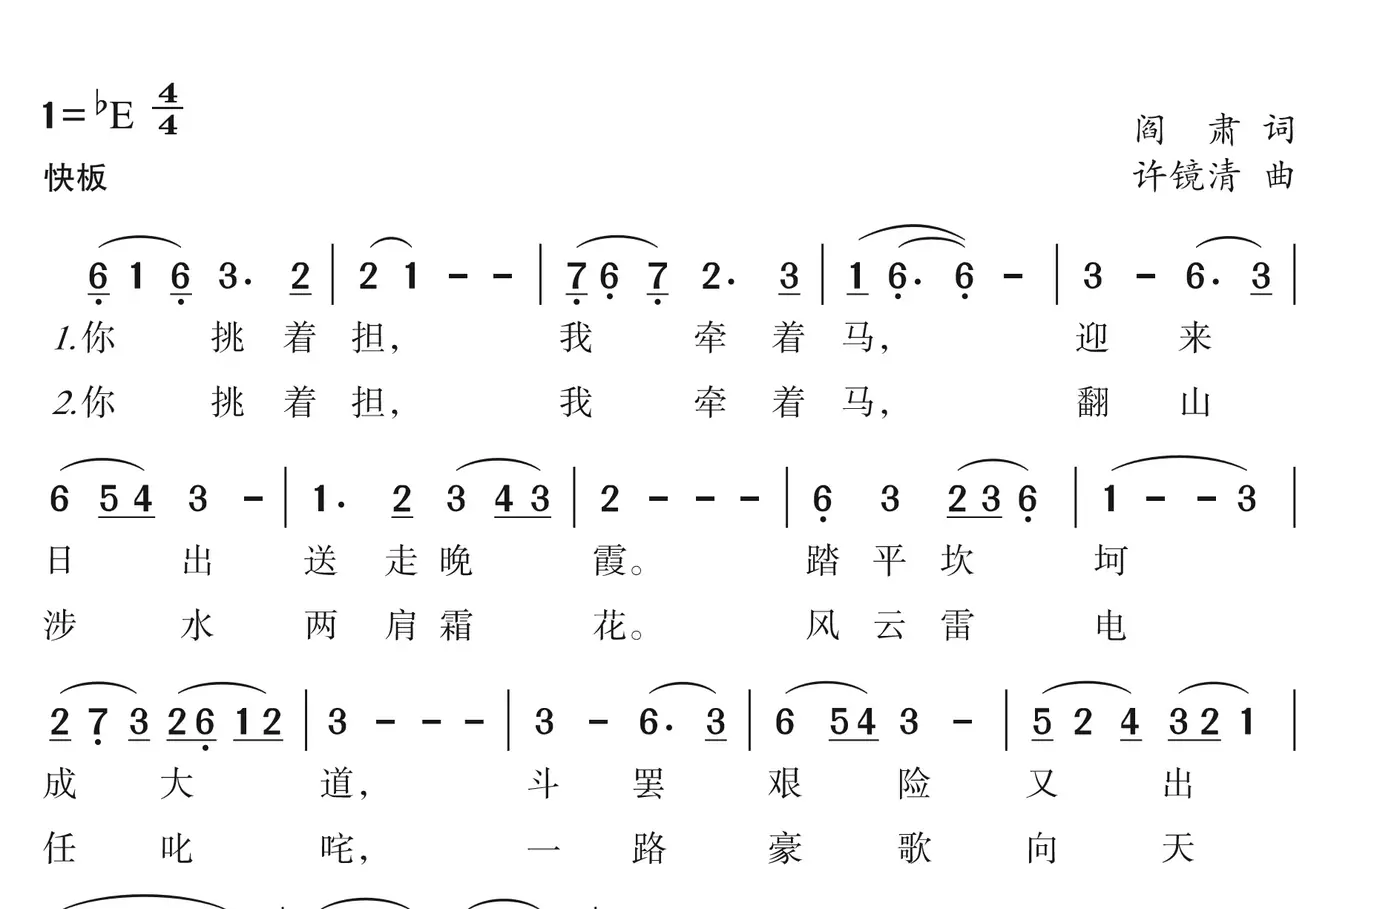
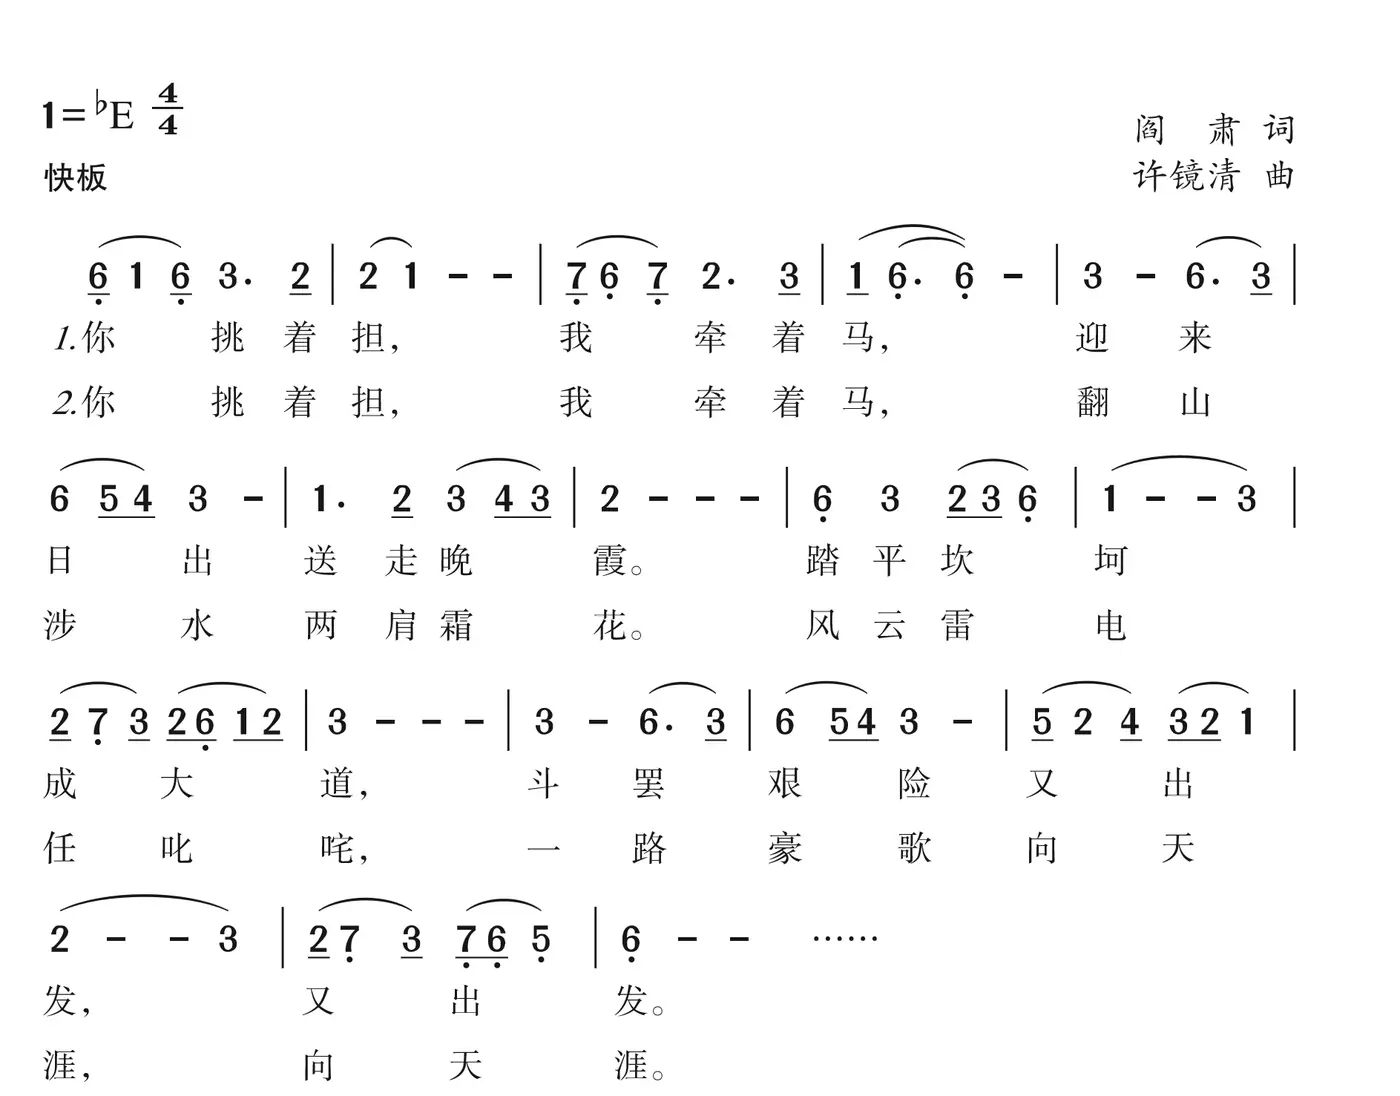
feat(xiangyi): 八下 melodies (40 works) transcribed from the score crops
Also fixes cut-off score boxes for 好汉歌, 敢问路在何方, 大红枣儿送亲人,
阳关三叠 and 发声练习（3）. Skipped: 要学那泰山顶上一青松 (散板), F大调 and
和弦 (scale/chord diagrams).

diff --git a/app/lib/lesson/melodies-xy-g8s2.ts b/app/lib/lesson/melodies-xy-g8s2.ts
@@ -353,6 +353,103 @@ const MELODIES: Record<string, Melody[]> = {
       "",
       { edition: E, title: "五线谱视唱", note: "照录第41页五线谱视唱（2）（金砂《牧羊姑娘》，F大调），按音高译为简谱；“慢板”未标数字速度，播放暂按60 BPM" }),
   ],
+  "《滚滚长江东逝水》": [
+    segment(B, 44, "1=D", "4/4", 76,
+      "6/ 5/ 6/ 7/ 7/ ~6/ 6/ ~5// ~#4// | 3 - - - | 2/ 2/ 2/ ~6,/ 1 2/ ~1/ | 3 - - - |" +
+      " 5/ 5 5// ~3// 5 3/ ~5/ | 6/ ~6/ ~6/ ~3// ~2// 2/ ~1. | 2/ 2/ 2// 2// ~1// ~2// 3/ ~5. | 3,/ 5,/ 6,// ~7,// 5,/ 6, 6,/ 1/ |" +
+      " 2/ 2/ 2// 3// 1// 2// 3/ 5/ 5,/ 6,/ | 3,./ 5,// 6,// 7,// 5,/ 6,/ 6,/ 6,/ 1/ |" +
+      " 2/ 2/ 2// ~3// ~6,/ 1 - | 2 3.// ~5/// ~6,/ 2/ ~1. | 2/ 2/ 2/ ~6,/ 1 6/ ~5/ | ~5/ 3. ~3 - |" +
+      " 6/ 6 ~1'/ 2'/ ~3'// ~2'// 1'/ ~7/ | 6/ 2'/ ~1'.// ~2'/// ~7// ~6// 6/ ~5. | 3/ 5/ 6// 6// ~1'/ 2' 1'/ 2'/ |" +
+      " 3'// ~2'// ~3'. ~3' - | ~3' - - 2'/ ~5/ | 1'/ ~6. ~6 - | ~6 - - - | ~6 - - - | ~6 - - 0",
+      "滚 滚 长 江 东 逝 水 浪 花 淘 尽 英 雄 是 非 成 败 转 头 空 青 山 依 旧 在 几 度 夕 阳 红 " +
+      "_ _ _ _ _ _ _ _ _ _ _ _ _ _ _ _ _ _ _ _ _ " +
+      "白 发 渔 樵 江 渚 上 惯 看 秋 月 春 风 一 壶 浊 酒 喜 相 逢 古 今 多 少 事 都 付 笑 谈 中",
+      { edition: E, note: "照录第44—45页，括号内间奏照录；结尾反复只录一遍，直接接第二结尾；倚音、波音从略；“中速 豪迈地”未标数字速度，播放暂按76 BPM" }),
+  ],
+  "《好汉歌》": [
+    segment(B, 46, "1=♭A", "4/4", 120,
+      "5 5' 7/ 7// ~6// 5/ 5/ | 1'/ 1'// 6// 5/ 5/ 3'// 3'/ ~6// 5/ 5/ | 0/ 5'/ 0/ 5'/ 1'/ 6// ~1'// 2'/ 2'/ | 2'/ 5'/ 2'/ 5'/ 3'// ~2'// 1'/ 2'/ 2'/ |" +
+      " 5 5' 7/ 7// ~6// 5/ 5/ | 1'/ 1'// ~6// 5/ 5/ 3'// 3'/ ~6// 5/ 5/ | 0/ 5'/ 0/ 5'/ 1'/ 6// ~1'// 2'/ 2'/ | 2'/ 5'/ 2'/ 5'/ 3'// ~2'// 1'/ 2'/ 2'/ |" +
+      " 3'./ 3'// 3'/ 3'/ 3'// ~5'// 6/ 1'/ 1'/ | 5'./ 6// 5/ 5/ 6// ~5// 3/ 5/ 5/ | 5/ 1'/ 5/ 1'/ 6// ~5// 3/ 5/ 5/ |" +
+      " 5'./ 6// 5/ 5/ 6// ~5// 3/ 5/ 5/ | 5/ 1'/ 5/ 1'/ 6// ~5// 3/ 5/ 5/ |" +
+      " 5'./ ~3'// 2' 3'// 3'/ ~1'// 2' | 0/ 5'/ 0/ 5'/ 6'// ~1''// 3'/ 2' | 5'./ ~3'// 2' 3'// ~2'// 1'/ 2' | 2'/ 5'/ 2'/ 5'/ 3'// ~2'// 1'/ 2' |" +
+      " 3'./ 3'// 3'/ 3'/ 3'// ~5'// 6/ 1'/ 1'/ | 5'./ 6// 5/ 5/ 6// ~5// 3/ 5/ 5/ | 5/ 1'/ 5/ 1'/ 6// ~5// 3/ 5/ 5/ |" +
+      " 0/ 5/ 0/ 5/ 4/ 4// 4// 5// 5// 5/ | 0/ 5/ 0/ 5/ 4/ 4// 4// 5// 5// 5/ | 2'/ 2'/ 1'// 1'// 2'/ 0 0 | 0 0 0 1'// 1'// 2'/",
+      "大 河 向 东 流 哇 天 上 的 星 星 参 北 斗 哇 咳 咳 参 北 斗 哇 生 死 之 交 一 碗 酒 哇 " +
+      "说 走 咱 就 走 啊 你 有 我 有 全 都 有 啊 咳 咳 全 都 有 哇 水 里 火 里 不 回 头 啊 " +
+      "路 见 不 平 一 声 吼 啊 该 出 手 时 就 出 手 啊 风 风 火 火 闯 九 州 啊 该 出 手 时 就 出 手 啊 风 风 火 火 闯 九 州 啊 " +
+      "嗨 呀 依 儿 呀 嗨 嗨 依 儿 呀 嗨 呀 依 儿 呀 唉 嗨 唉 嗨 依 儿 呀 " +
+      "路 见 不 平 一 声 吼 啊 该 出 手 时 就 出 手 啊 风 风 火 火 闯 九 州 啊 嘿 嘿 嗨 呀 呼 嘿 嘿 嘿 嘿 嘿 嗨 呀 呼 嘿 嘿 嘿 _ _ _ _ _ _ _ _",
+      { edition: E, note: "照录第46—47页，歌词录入第一段，反复后接结束句（括号内器乐照录，笑声未录）；（领）（合）不分声部；重音记号从略；“粗犷、豪放地”未标数字速度，播放暂按120 BPM" }),
+  ],
+  "《葬花吟》": [
+    segment(B, 48, "1=F", "4/4", 72,
+      "1./ ~2// ~7,/ ~6,/ 3 - | 1./ ~3// ~2/ ~7,/ 6, - | 6 - 6./ ~5// ~3/ ~2/ | 2 - - - | 3./ ~5// ~2/ ~3/ 5 - | 3./ ~5// ~3/ ~6,/ 1 - | 7, 5 ~3./ ~5// ~2/ ~7,/ | 6,./ ~1// ~6, - - |" +
+      " 1 1 - ~7,/ ~6,/ | 2./ ~3// 2 - ~3 | 6 - 6./ ~5// ~3/ ~2/ | 2/ ~3// ~2// ~1 - - | 7,./ ~6,// ~5,/ ~6,/ 1 ~7,/ ~6,/ | 2./ ~3// ~5,/ ~6,/ 1 - | 7, 5 ~3./ ~5// ~2/ ~7,/ | 6,./ ~1// ~6, - -",
+      "花 开 花 谢 飞 满 天 红 消 香 断 有 谁 怜 游 丝 软 系 飘 春 榭 落 絮 轻 沾 扑 绣 帘",
+      { edition: E, note: "照录第48页（书上以“……”截止）；“中速 凄婉、哀怨地”未标数字速度，播放暂按72 BPM" }),
+  ],
+  "《敢问路在何方》": [
+    segment(B, 49, "1=♭E", "4/4", 120,
+      "6,/ ~1 ~6,/ 3. 2/ | 2 ~1 - - | 7,/ ~6, ~7,/ 2. 3/ | 1/ ~6,. ~6, - | 3 - 6. ~3/ | 6 ~5/ ~4/ 3 - | 1. 2/ 3 ~4/ ~3/ | 2 - - - |" +
+      " 6, 3 2/ ~3/ ~6, | 1 - - ~3 | 2/ ~7, ~3/ 2/ ~6,/ ~1/ ~2/ | 3 - - - | 3 - 6. ~3/ | 6 ~5/ ~4/ 3 - | 5/ ~2 ~4/ 3/ ~2/ ~1 | 2 - - ~3 |" +
+      " 2/ ~7,/ 3 ~7,/ ~6,/ ~5, | 6, - - -",
+      "你 挑 着 担 我 牵 着 马 迎 来 日 出 送 走 晚 霞 踏 平 坎 坷 成 大 道 斗 罢 艰 险 又 出 发 又 出 发",
+      { edition: E, note: "照录第49页，歌词录入第一段（书上以“……”截止，末音按四拍收住）；“快板”未标数字速度，播放暂按120 BPM" }),
+  ],
+  "《大红枣儿送亲人》": [
+    segment(B, 51, "1=F", "4/4", 80,
+      "0 0 0 0 | 0 0 0 0 | 5 6./ 1'// 6/ 5/ 4/ 3/ | 5/ 2/ 3/ 5/ 2 - | 5 6./ 1'// 6/ 5/ 4/ 3/ | 5/ 2/ 1/ 7,// 6,// 5, - | 1 2./ 3// 2/ 1/ 7,/ 6,/ |" +
+      " 5 4// 5// 6/ 5 - | 5./ 5// 5/ 5/ 1' 3/ 2/ | 1/ 6,/ 5/ 3// 2// 1 - | 1' - 5 - | 6./ 1'// 6/ 5/ 3/ 5/ 2/ 3// 2// | 1. 3/ 2/ 1/ 6, | 5,./ 6,// 1/ 2/ 3/ 5/ 6/ 1'/ | 5 - - -",
+      "",
+      { edition: E, title: "竖笛三重奏", label: "第Ⅰ声部", note: "照录第51—52页竖笛三重奏（全按作5̣，旋律选自舞剧《白毛女》），亦可作三部视唱；连线与力度记号从略；“中速 抒情地”未标数字速度，播放暂按80 BPM",
+        voices: [{
+          label: "第Ⅱ声部",
+          notes: "3/ 5,/ 3/ 5,/ 2/ 5,/ 2/ 5,/ | 1 - 2 - | 3/ 5,/ 3/ 5,/ 2/ 5,/ 2/ 5,/ | 1 - 2 - | 3/ 5,/ 3/ 5,/ 2/ 5,/ 2/ 5,/ | 1 - 2 - | 3 - 4 - |" +
+            " 5. 4/ 3/ 2/ 1/ 5,/ | 1 - 2 - | 3 4 3/ 2/ 1/ 2/ | 3. 2/ 1 - | 3/ 5,/ 3/ 5,/ 2/ 5,/ 2/ 5,/ | 1 - 2/ 3/ 4 | 0 0 0/ 2/ 3/ 4/ | 5 - - -",
+          lyrics: "",
+        }, {
+          label: "第Ⅲ声部",
+          notes: "1 - 2 - | 3/ 5,/ 3/ 5,/ 2/ 5,/ 2/ 5,/ | 1 - 2 - | 3/ 5,/ 3/ 5,/ 2/ 5,/ 2/ 5,/ | 1 - 2 - | 3/ 5,/ 3/ 5,/ 2/ 5,/ 2/ 5,/ | 1 - 2 - |" +
+            " 3. 4/ 5 - | 3 - 4 - | 5. 5,/ 1/ 2/ 3/ 5/ | 6 - 3. 2/ | 1 - 2 - | 3/ 5,/ 3/ 5,/ 6,/ 1/ 2 | 0 0 0/ 2/ 1/ 6,/ | 5, - - -",
+          lyrics: "",
+        }] }),
+  ],
+  "《阳关三叠》": [
+    segment(B, 59, "1=♭E", "4/4、3/4", 60,
+      "6,./ 1// 2/ 1/ | 3 2 2 - | 5./ ~6// 5 3/ ~5/ 5// ~3// ~2/ | 1 2/ ~3/ 2 - | 1/ ~2/ 1 6,/ ~1/ 1// ~6,// ~5,/ | 4, 5,/ ~6,/ 5, - |" +
+      " 1./ 2// 3/ ~5/ 5// ~3// ~2/ | 1 2/ ~3/ 2 - | 2./ 1// 6,/ 1/ 1 - | 6,/ 6. 6,/ 6. | ~6 6/ 5/ 6/ 5// ~6// 3 | 3 - 5 6/ ~1'/ |" +
+      " 6 5 6/ ~1'/ | 6 5/ 3/ 3// 2// 1/ | 1 3/ 3/ ~3// 2// 1/ | 2 1/ 1/ 6,/ 6,/ | 1/ 1/ 2/ 2/ 3/ 3/ | ~3 - - | ~5/ ~3/ 3/ ~2/ 2 | 2 - - |" +
+      " ~2 - 3/ ~2/ | 2 3/ 2/ 3/ 2/ | 2 2./ 1// 6,/ 1/ | 1 - 3. 1/ | 2 - 3. 1/ | 2 - 3/ ~5/ 3 | 1 2 6,. 5,/ | 6, - 0 0 | 0 0 3 - |" +
+      " 2/ 1/ 6,/ 6,/ 6,/ 1/ 2/ 1/ | 3 2 2 - | 3 3 3 - | 2 - - - | ~2 -",
+      "渭 城 朝 雨 浥 轻 尘 客 舍 青 青 柳 色 新 劝 君 更 尽 一 杯 酒 西 出 阳 关 无 故 人 _ _ _ _ _ " +
+      "旨 酒 旨 酒 未 饮 心 已 先 醇 载 驰 骃 载 驰 骃 何 日 言 旋 轩 辚 能 酌 几 多 巡 千 巡 有 尽 寸 衷 难 泯 无 穷 的 伤 感 " +
+      "楚 天 湘 水 隔 远 滨 期 早 托 鸿 鳞 尺 素 申 尺 素 申 尺 素 频 申 如 相 亲 噫 从 今 一 别 两 地 相 思 入 梦 频 闻 雁 来 宾",
+      { edition: E, note: "照录第59—60页，括号内间奏照录；“载驰骃”起为3/4拍，“尺素申”起回到4/4拍；延长、力度与速度变化记号从略，未标数字速度，播放暂按60 BPM" }),
+  ],
+  "《发声练习（1）》": [
+    segment(B, 61, "1=C", "2/4", 76,
+      "1/ ~2/ ~3/ ~4/ | 5 0 | 5/ ~4/ ~3/ ~2/ | 1 0 | 1/ ~2/ ~3/ ~4/ | 5/ ~4/ ~3/ ~2/ | ~1 0",
+      "mi ya mi ya mi ya",
+      { edition: E, note: "照录第61页（1=C→G，逐次升高），此处按1=C录入；第二行歌词lü ya从略" }),
+  ],
+  "《发声练习（2）》": [
+    segment(B, 61, "1=C", "3/4", 92,
+      "1/ ~2/ 3/ ~2/ 1/ 0/ | 2/ ~3/ 4/ ~3/ 2/ 0/ | 3/ ~4/ 5/ ~4/ 3/ 0/ | 5/ ~4/ 3/ ~2/ 1/ 0/",
+      "li lo la li lo la li lo la li lo la",
+      { edition: E, note: "照录第61页（1=C→G，逐次升高），此处按1=C录入；顿音记号从略" }),
+  ],
+  "《发声练习（3）》": [
+    segment(B, 61, "1=♭D", "4/4", 72,
+      "1' ~7/ ~6/ ~5 - | 6 ~5/ ~4/ ~3 - | 4 ~3/ ~2/ ~5 ~1' | 3/ ~2/ ~2/ ~1/ 1 -",
+      "me mi ma mo mu",
+      { edition: E, label: "高声部", note: "照录第61页二声部发声练习；换气记号从略；“中速稍慢”未标数字速度，播放暂按72 BPM",
+        voices: [{
+          label: "低声部",
+          notes: "6 ~5/ ~4/ ~3 - | 4 ~3/ ~2/ ~1 - | 2 ~1/ ~7,/ ~1 ~3 | 5 ~4 3 -",
+          lyrics: "me mi ma mo mu",
+        }] }),
+  ],
 };
 
 export default MELODIES;
